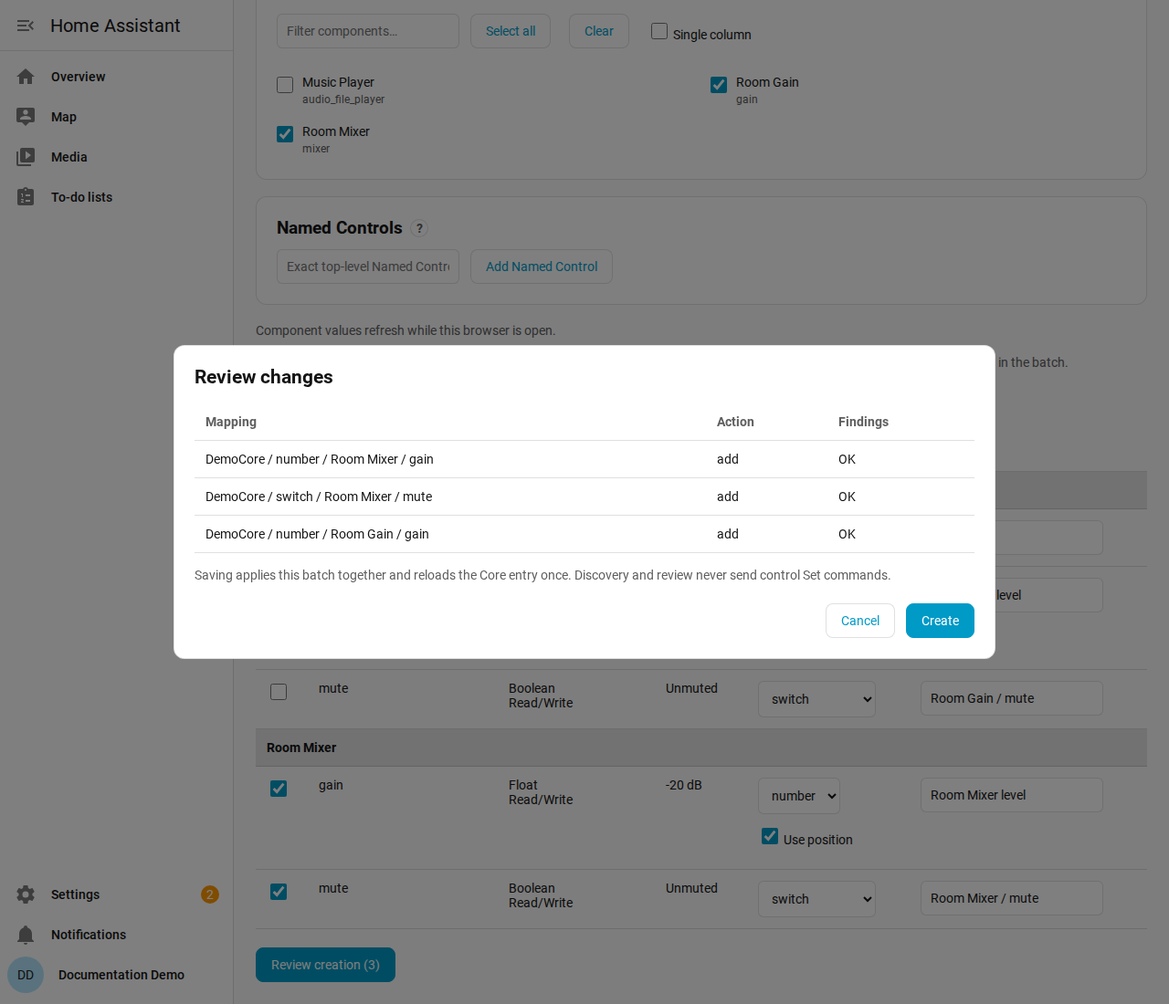
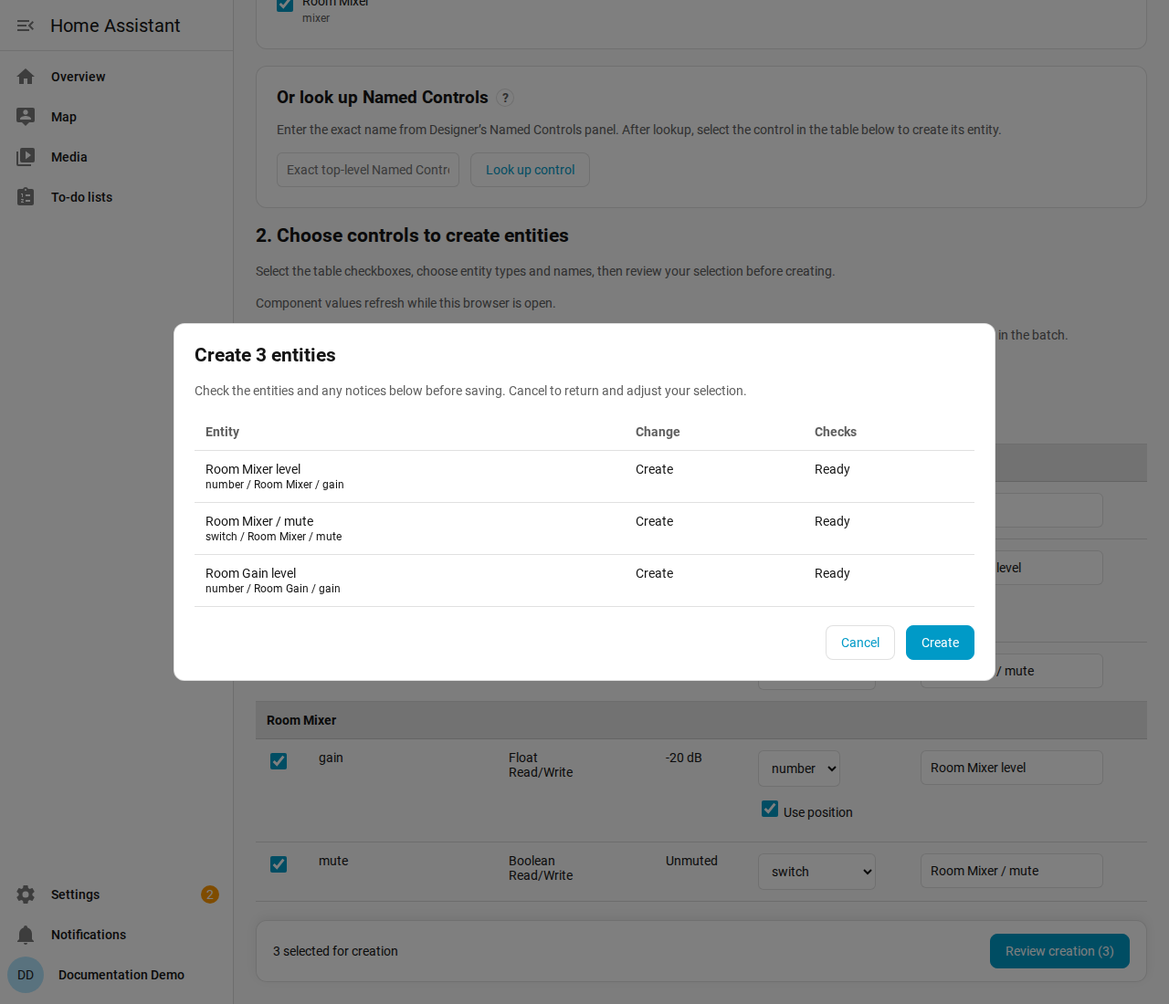
Clarify entity management, review feedback, and creation completion

diff --git a/custom_components/qsys_qrc/frontend/panel.js b/custom_components/qsys_qrc/frontend/panel.js
@@ -114,7 +114,7 @@ class QsysPanel extends HTMLElement {
     if(this.busy||!this.pendingEntityInventory)return;
     const entry=this.pendingEntityInventory;this.pendingEntityInventory=null;
     if(entry!==this.entry||!['browser','entities','migrate'].includes(this.view))return;
-    this.run(async()=>{await this.loadInventory();if(entry===this.entry&&this.message==='Changes saved. The Core integration is reloading.')this.message='Changes saved. The Core integration has reloaded.';});
+    this.run(async()=>{await this.loadInventory();if(entry===this.entry)this.reloadPending=false;});
   }
   async initialize(){await this.subscribeEntityEvents();await this.load();const route=this.readRoute();await this.navigate(route.view,{entry:route.entry,history:'replace'});}
   routeChanged(){
@@ -125,7 +125,7 @@ class QsysPanel extends HTMLElement {
     this.run(()=>this.navigate(route.view,{entry:route.entry,history:'replace'}));
   }
   get core(){return this.cores.find(c=>c.entry_id===this.entry);}
-  async navigate(view,{entry=this.entry,history:historyMode='push'}={}){if(!panelViews.has(view)||!await this.confirmLeave())return;this.entry=entry;this.view=view;this.review=null;this.selected.clear();this.filter='';if(view==='overview'||view==='diagnostics')await this.load();if(this.entry){if(view==='browser') {await this.loadInventory();this.components=(await this.api('components')).components.sort((a,b)=>this.collator.compare(a.Name,b.Name));this.controls=[];this.selectedComponents.clear();this.componentErrors={};this.cleanControls.clear();}if(view==='entities'||view==='migrate')await this.loadInventory();if(view==='monitor')await this.pollMonitor();if(view==='export')await this.loadExport();}this.writeRoute(historyMode);}
+  async navigate(view,{entry=this.entry,history:historyMode='push'}={}){if(!panelViews.has(view)||!await this.confirmLeave())return;if(entry!==this.entry){this.message='';this.messageEntities=false;this.reloadPending=false;}this.entry=entry;this.view=view;this.review=null;this.selected.clear();this.filter='';if(view==='overview'||view==='diagnostics')await this.load();if(this.entry){if(view==='browser') {await this.loadInventory();this.components=(await this.api('components')).components.sort((a,b)=>this.collator.compare(a.Name,b.Name));this.controls=[];this.selectedComponents.clear();this.componentErrors={};this.cleanControls.clear();}if(view==='entities'||view==='migrate')await this.loadInventory();if(view==='monitor')await this.pollMonitor();if(view==='export')await this.loadExport();}this.writeRoute(historyMode);}
   async loadExport(){this.exportDocument=null;this.exportDocument=(await this.api('export',{effective:!!this.effective})).document;}
   async copyExport(){
     if(!this.exportDocument)throw Error('Load the YAML export before copying');
@@ -159,7 +159,8 @@ class QsysPanel extends HTMLElement {
       const nullable=field!=='mode'||platforms.every(p=>p==='text');
       return `<label class="edit-value-label">New value<select id="edit-value">${nullable?'<option value="">None</option>':''}${options.map(v=>`<option value="${escapeHTML(v)}" ${v===value?'selected':''}>${escapeHTML(v)}</option>`).join('')}</select></label>`;
     }
-    if(['options','change_template','value_template'].includes(field))return `<label class="edit-value-label">New value<textarea id="edit-value" rows="${field==='options'?5:4}" spellcheck="false">${escapeHTML(value)}</textarea></label>`;
+    if(field==='options')return `<label class="edit-value-label">Options override<textarea id="edit-value" rows="5" aria-describedby="options-help">${escapeHTML(value)}</textarea></label><p id="options-help">Leave blank to follow live Q-SYS choices, or enter one option per line to use a static list.</p>`;
+    if(['change_template','value_template'].includes(field))return `<label class="edit-value-label">New value<textarea id="edit-value" rows="${field==='options'?5:4}" spellcheck="false">${escapeHTML(value)}</textarea></label>`;
     return `<label class="edit-value-label">New value<input id="edit-value" type="text" value="${escapeHTML(value)}" ${field==='attribute'?'list="sensor-attributes"':''}></label>${field==='attribute'?'<datalist id="sensor-attributes"><option value="String"><option value="Value"><option value="Position"></datalist>':''}`;
   }
   matchingComponents(){const query=(this.componentFilter||'').toLowerCase();return (this.components||[]).filter(c=>(c.Name+' '+c.Type).toLowerCase().includes(query));}
@@ -345,7 +346,19 @@ class QsysPanel extends HTMLElement {
     }
     if(action==='import')return this.preview({operation:'import',document:this.shadowRoot.querySelector('#document').value,collision:this.shadowRoot.querySelector('#collision').value,transfer_yaml:this.shadowRoot.querySelector('#transfer').checked});
     if(action==='migrate')return this.preview({operation:'migrate',identities:this.selectedRows().map(r=>JSON.parse(key(this.core.name,r.mapping))),collision:this.shadowRoot.querySelector('#collision').value});
-    if(action==='save'){await this.api(this.pending.operation,{...this.pending,commit:true,revision:this.review.revision,review_token:this.review.review_token});for(const i of this.selected)if(this.view==='browser')this.cleanControls.set(this.controlKey(this.controls[i]),JSON.stringify(this.controlSettings(this.controls[i])));if(this.view==='import')this.cleanDocument=this.document;this.editValue='';this.resetEditBaseline=true;this.review=null;this.message='Changes saved. The Core integration is reloading.';this.selected.clear();if(['browser','entities','migrate'].includes(this.view))await this.loadInventory();}
+    if(action==='save'){
+      const operation=this.pending.operation,count=this.review.changes.filter(c=>c.action!=='skip').length;
+      this.reloadPending=true;
+      try{await this.api(operation,{...this.pending,commit:true,revision:this.review.revision,review_token:this.review.review_token});}
+      catch(error){this.reloadPending=false;throw error;}
+      for(const i of this.selected)if(this.view==='browser')this.cleanControls.set(this.controlKey(this.controls[i]),JSON.stringify(this.controlSettings(this.controls[i])));
+      if(this.view==='import')this.cleanDocument=this.document;
+      this.editValue='';this.resetEditBaseline=true;this.review=null;
+      const verb={create:'Created',edit:'Updated',delete:'Deleted',import:'Imported',migrate:'Migrated'}[operation]||'Saved';
+      this.message=count?`${verb} ${count} ${count===1?'entity':'entities'}.`:'No entities changed.';
+      this.messageEntities=count>0&&this.view!=='entities';
+      this.selected.clear();if(['browser','entities','migrate'].includes(this.view))await this.loadInventory();
+    }
     if(action==='cancel'){this.review=null;}
     if(action==='capture')await this.pollMonitor({capture:!this.capture});
     if(action==='pause'){this.paused=!this.paused;this.monitorGeneration=(this.monitorGeneration||0)+1;}
@@ -387,10 +400,27 @@ class QsysPanel extends HTMLElement {
       icon.stateObj=this._hass?.states[row.entity_id]||{entity_id:row.entity_id||`${row.mapping.platform}.qsys_preview`,state:'unavailable',attributes:{device_class:row.mapping.settings.device_class}};
     });
   }
-  renderEntities(migrate=false){return `<p>${migrate?'Select definitions configured via Home Assistant YAML to transfer ownership to the UI. Remove transferred definitions from your YAML files afterward.':'Definitions configured via Home Assistant YAML are read-only until migrated. Deleting an imported mapping can reactivate its remaining definition configured via Home Assistant YAML.'}</p>${this.toolbar()}<div class="table"><table><thead><tr><th><input id="all" type="checkbox" aria-label="Select visible mappings"></th>${this.sortHeader('Entity Name','entities','name')}${this.sortHeader('Platform','entities','platform')}${this.sortHeader('Component / control','entities','target')}${this.sortHeader('Source','entities','source')}${this.sortHeader('Details','entities','details')}</tr></thead><tbody>${this.entityRows(migrate).map(({item:r,index:i})=>{const m=r.mapping,s=m.settings,enabled=migrate?r.source==='yaml':r.source==='ui';return `<tr data-entity-row="${i}" data-search="${escapeHTML([JSON.stringify(m),r.entity_name,r.entity_id,r.displaySource||r.source].filter(Boolean).join(' '))}"><td><input data-select="${i}" type="checkbox" aria-label="Select ${escapeHTML(s.name||s.control||s.component)}" ${enabled?'':'disabled'} ${this.selected.has(i)?'checked':''}></td><td>${this.entityNameCell(r,i)}</td><td>${m.platform}</td><td>${escapeHTML(s.component||'Named Control')} / ${escapeHTML(s.control||'media player')}</td><td>${r.displaySource||r.source}</td><td><details><summary>Settings</summary>${r.entity_id?`<p>${escapeHTML(r.entity_id)}</p>`:''}${r.cleanup_pending?'<p>Remove the transferred definition from Home Assistant YAML.</p>':''}${r.yaml_conflict?'<p>The definition configured via Home Assistant YAML changed after migration.</p>':''}<pre>${escapeHTML(JSON.stringify(s,null,2))}</pre></details></td></tr>`;}).join('')}</tbody></table></div>${migrate?`<label>Existing UI mappings <select id="collision"><option value="skip" ${this.collision!=='replace'?'selected':''}>Skip</option><option value="replace" ${this.collision==='replace'?'selected':''}>Replace</option></select></label>${this.button(`Review migration (${this.selected.size})`,'migrate')}`:`<label>Setting to edit <select id="edit-field">${this.editableFields().map(([v,label])=>`<option value="${v}" ${(this.editField||'name')===v?'selected':''}>${label}</option>`).join('')}</select></label>${this.editInput()}<p>The setting applies to every selected entity. All selected mappings must support it and pass validation.</p>${this.button('Review bulk edit','edit',this.selected.size?'class="filled"':'')}${this.button('Review deletion','delete',`class="danger ${this.selected.size?'filled':''}"`)}`}`;}
+  renderEntities(migrate=false){return `<p>${migrate?'Select definitions configured via Home Assistant YAML to transfer ownership to the UI. Remove transferred definitions from your YAML files afterward.':'Select entities to edit their settings or delete them. Click an entity name to open its Home Assistant controls.'}</p>${this.inventory.some(row=>row.source==='yaml')?'<p>YAML-only entities are read-only until migrated. Entities with both sources appear once as ui + yaml; deleting their UI definition can reactivate YAML.</p>':''}${!this.entityRows(migrate).length?`<section class="empty-state"><h2>${migrate?'No YAML entities to migrate':'No entities yet'}</h2><p>${migrate?'This Core has no entity definitions in Home Assistant YAML.':'Choose components or look up Named Controls to create your first entities.'}</p>${migrate?'':this.button('Add entities','navigate','data-view="browser" class="filled"')}</section>`:''}${this.toolbar()}<div class="table"><table><thead><tr><th><input id="all" type="checkbox" aria-label="Select visible mappings"></th>${this.sortHeader('Entity Name','entities','name')}${this.sortHeader('Platform','entities','platform')}${this.sortHeader('Component / control','entities','target')}${this.sortHeader('Source','entities','source')}${this.sortHeader('Details','entities','details')}</tr></thead><tbody>${this.entityRows(migrate).map(({item:r,index:i})=>{const m=r.mapping,s=m.settings,enabled=migrate?r.source==='yaml':r.source==='ui';return `<tr data-entity-row="${i}" data-search="${escapeHTML([JSON.stringify(m),r.entity_name,r.entity_id,r.displaySource||r.source].filter(Boolean).join(' '))}"><td><input data-select="${i}" type="checkbox" aria-label="Select ${escapeHTML(s.name||s.control||s.component)}" ${enabled?'':'disabled'} ${this.selected.has(i)?'checked':''}></td><td>${this.entityNameCell(r,i)}</td><td>${m.platform}</td><td>${escapeHTML(s.component||'Named Control')} / ${escapeHTML(s.control||'media player')}</td><td>${r.displaySource||r.source}</td><td><details><summary>Settings</summary>${r.entity_id?`<p>${escapeHTML(r.entity_id)}</p>`:''}${r.cleanup_pending?'<p>Remove the transferred definition from Home Assistant YAML.</p>':''}${r.yaml_conflict?'<p>The definition configured via Home Assistant YAML changed after migration.</p>':''}<pre>${escapeHTML(JSON.stringify(s,null,2))}</pre></details></td></tr>`;}).join('')}</tbody></table></div>${migrate?`<label>Existing UI mappings <select id="collision"><option value="skip" ${this.collision!=='replace'?'selected':''}>Skip</option><option value="replace" ${this.collision==='replace'?'selected':''}>Replace</option></select></label>${this.button(`Review migration (${this.selected.size})`,'migrate',this.selected.size?'class="filled"':'disabled')}`:`<label>Setting to edit <select id="edit-field">${this.editableFields().map(([v,label])=>`<option value="${v}" ${(this.editField||'name')===v?'selected':''}>${label}</option>`).join('')}</select></label>${this.editInput()}<p>The setting applies to every selected entity. All selected mappings must support it and pass validation.</p>${this.button('Review bulk edit','edit',this.selected.size?'class="filled"':'disabled')}${this.button('Review deletion','delete',`class="danger ${this.selected.size?'filled':''}" ${this.selected.size?'':'disabled'}`)}`}`;}
   renderTransport(){if(this.view==='export')return `<article class="card"><h2>Export portable YAML</h2><div class="tools">${this.button('Copy to clipboard','copy-export',this.exportDocument?'':'disabled')}${this.button('Download','export',this.exportDocument?'':'disabled')}</div><label><input id="effective" type="checkbox" ${this.effective?'checked':''}> Include active Home Assistant YAML mappings</label><p>Connection credentials and installation IDs are excluded.</p><pre id="export-document">${escapeHTML(this.exportDocument||'')}</pre></article>`;return `<article class="card"><h2>Import portable YAML</h2><label>Upload YAML <input id="file" type="file" accept=".yaml,.yml,.json"></label><label>Or paste YAML<textarea id="document" rows="14">${escapeHTML(this.document||'')}</textarea></label><label>Collisions <select id="collision"><option value="skip" ${this.collision!=='replace'?'selected':''}>Skip existing</option><option value="replace" ${this.collision==='replace'?'selected':''}>Replace existing</option></select></label><label><input id="transfer" type="checkbox" ${this.transfer?'checked':''}> Transfer ownership of colliding Home Assistant YAML mappings</label><p>Review discovery findings and changes before saving. Maximum 256 KiB and 1,000 mappings.</p>${this.button('Review import','import')}</article>`;}
   renderMonitor(){return `<div class="tools">${this.button(this.capture?'Stop capture':'Start capture','capture')}${this.button(this.paused?'Resume display':'Pause display','pause')}${this.button('Clear buffer','clear')}${this.button('Download capture','download-monitor')}</div><p><span id="monitor-status">${this.capture?'Capturing':'Capture stopped'} · ${this.frames.length}/500 frames retained.</span> Login credentials are redacted. Frames over 32 KiB are truncated. Capture covers this integration’s Core connection; refreshing the display adds no QRC requests.</p><p id="monitor-error" class="error" role="alert" hidden></p><div class="tools"><select id="direction" aria-label="Direction"><option value="">Both directions</option><option value="sent" ${this.direction==='sent'?'selected':''}>Sent</option><option value="received" ${this.direction==='received'?'selected':''}>Received</option></select><input id="monitor-search" placeholder="Filter method, ID, or payload" aria-label="Filter protocol frames" value="${escapeHTML(this.monitorSearch||'')}"></div><div class="table"><table><thead><tr><th>Time</th><th>Direction</th><th>ID</th><th>JSON-RPC frame</th></tr></thead><tbody id="monitor-rows">${this.frames.slice().reverse().map(frame=>this.monitorRow(frame)).join('')}</tbody></table></div>`;}
-  renderReview(){return `<dialog id="review-dialog" aria-labelledby="review-title"><section class="review"><h2 id="review-title" tabindex="-1">Review changes</h2>${this.error?`<p class="error" role="alert">${escapeHTML(this.error)}</p>`:''}<div class="review-content"><table><thead><tr><th>Mapping</th><th>Action</th><th>Findings</th></tr></thead><tbody>${this.review.changes.map(c=>`<tr><td>${escapeHTML(c.identity.join(' / '))}</td><td>${escapeHTML(c.action)}${c.ownership_transfer?' · YAML ownership transfer':''}</td><td>${escapeHTML([c.warning,...(this.review.findings.find(f=>JSON.stringify(f.identity)===JSON.stringify(c.identity))?.issues||[])].filter(Boolean).join(', ')||'OK')}</td></tr>`).join('')}</tbody></table></div><p>Saving applies this batch together and reloads the Core entry once. Discovery and review never send control Set commands.</p><div class="review-actions">${this.button('Cancel','cancel')}${this.button(({create:'Create',edit:'Save',delete:'Delete'})[this.pending.operation]||'Confirm and save','save',`class="filled ${this.pending.operation==='delete'?'danger':''}"`)}</div></section></dialog>`;}
+  reviewCount(){return this.review.changes.filter(c=>c.action!=='skip').length;}
+  reviewTitle(){
+    const verb={create:'Create',edit:'Edit',delete:'Delete',import:'Import',migrate:'Migrate'}[this.pending.operation]||'Save';
+    const count=this.reviewCount();return `${verb} ${count} ${count===1?'entity':'entities'}`;
+  }
+  findingLabel(issue){
+    return {missing_component:'The component was not found in the current design.',missing_control:'The control was not found in the current design.',read_only_mismatch:'This control is read-only. Choose a sensor entity instead.',incompatible_control:'This entity type does not support the control. Choose a compatible entity type.',unsupported_component_type:'This component does not support a media player entity.',writability_unverified:'Q-SYS did not report whether this control is writable.'}[issue]||String(issue).replaceAll('_',' ');
+  }
+  reviewBlocked(){return this.review.findings.some(f=>f.issues.some(issue=>['read_only_mismatch','incompatible_control','unsupported_component_type'].includes(issue)));}
+  reviewEntity(change){
+    const identity=JSON.stringify(change.identity);
+    const mapping=(this.pending.mappings||[]).find(m=>key(this.core.name,m)===identity)||this.inventory.find(row=>key(this.core.name,row.mapping)===identity)?.mapping;
+    return mapping?.settings.name||change.identity.at(-1)||'Entity';
+  }
+  renderReview(){
+    const blocked=this.reviewBlocked(),count=this.reviewCount(),deleting=this.pending.operation==='delete';
+    return `<dialog id="review-dialog" aria-labelledby="review-title" aria-describedby="review-description"><section class="review"><h2 id="review-title" tabindex="-1">${this.reviewTitle()}</h2><p id="review-description">${deleting?'Confirm which Home Assistant entities to delete. Their Q-SYS controls will remain available.':'Check the entities and any notices below before saving. Cancel to return and adjust your selection.'}</p>${this.error?`<p class="error" role="alert">${escapeHTML(this.error)}</p>`:''}${blocked?'<p class="error" role="alert">Some entities use an incompatible control or entity type. Cancel and adjust them before saving.</p>':''}${!count?'<p>No changes to save. Existing entities will be kept.</p>':''}<div class="review-content"><table><thead><tr><th>Entity</th><th>Change</th><th>Checks</th></tr></thead><tbody>${this.review.changes.map(c=>`<tr><td>${escapeHTML(this.reviewEntity(c))}<br><small>${escapeHTML(c.identity.slice(1).filter(Boolean).join(' / '))}</small></td><td>${escapeHTML({add:'Create',replace:'Replace',skip:'Keep existing',edit:'Update',delete:'Delete'}[c.action]||c.action)}${c.ownership_transfer?' · Move from YAML to UI':''}</td><td>${escapeHTML([c.warning,...(this.review.findings.find(f=>JSON.stringify(f.identity)===JSON.stringify(c.identity))?.issues||[]).map(issue=>this.findingLabel(issue))].filter(Boolean).join(' ')||'Ready')}</td></tr>`).join('')}</tbody></table></div><div class="review-actions">${this.button('Cancel','cancel')}${this.button(({create:'Create',edit:'Save',delete:'Delete'})[this.pending.operation]||'Confirm and save','save',`class="filled ${deleting?'danger':''}" ${blocked||!count?'disabled':''}`)}</div></section></dialog>`;
+  }
   captureForm(){
     this.shadowRoot.querySelectorAll('[data-name]').forEach(el=>{if(this.controls[el.dataset.name])this.controls[el.dataset.name].entityName=el.value;});
     const text=this.shadowRoot.querySelector('#document');if(text)this.document=text.value;
@@ -403,7 +433,7 @@ class QsysPanel extends HTMLElement {
     const titles={overview:'Dashboard',browser:'Components / Controls',entities:'Entities',monitor:'QRC Protocol Monitor',diagnostics:'Diagnostics',import:'Import YAML',export:'Export YAML',migrate:'Migrate from Home Assistant YAML'};
     this.shadowRoot.innerHTML=`<style>
       :host{display:block;height:100%;overflow:auto;background:var(--primary-background-color);color:var(--primary-text-color);font-family:var(--paper-font-body1_-_font-family,Roboto,Arial,sans-serif)}*{box-sizing:border-box}[hidden]{display:none!important}header{display:flex;align-items:center;gap:16px;padding:18px 24px;background:var(--card-background-color);border-bottom:1px solid var(--divider-color)}header h1{margin:0;font-size:23px}main{max-width:1400px;margin:auto;padding:24px}nav,.tools{display:flex;flex-wrap:wrap;align-items:center;gap:12px;margin-bottom:20px}.grid{display:grid;grid-template-columns:repeat(auto-fit,minmax(250px,1fr));gap:18px;margin-bottom:32px}.card,.review{background:var(--card-background-color);border:1px solid var(--divider-color);border-radius:12px;padding:22px;text-align:left}.browser-config-card{margin-bottom:18px}.browser-config-card .tools:last-child{margin-bottom:0}.section-heading{display:flex;align-items:center;gap:8px;margin-bottom:12px}.section-heading h2{margin:0}.help{position:relative;display:inline-flex}.help-icon{display:inline-flex;align-items:center;justify-content:center;width:20px;height:20px;padding:0;margin:0;border-radius:50%;font-size:14px;font-weight:600;color:var(--secondary-text-color)}.help-icon:focus-visible{outline:2px solid var(--primary-color);outline-offset:3px}.card .help-tooltip{position:absolute;top:28px;left:-36px;z-index:2;width:300px;max-width:calc(100vw - 90px);padding:12px;border:1px solid var(--divider-color);border-radius:8px;background:var(--card-background-color);color:var(--primary-text-color);font-size:14px;line-height:1.5;box-shadow:0 3px 12px #0003;visibility:hidden;pointer-events:none}.help:hover .help-tooltip,.help:focus-within .help-tooltip{visibility:visible}.card h2{margin:0 0 12px;font-size:19px}.card .section-heading h2{margin:0}.card p,p{line-height:1.5;color:var(--secondary-text-color)}.card span{color:var(--primary-color)}button{cursor:pointer;color:var(--primary-color);background:var(--card-background-color);border:1px solid var(--divider-color);border-radius:8px;padding:10px 16px;font:inherit;margin-right:8px}button.sort-header{display:inline-flex;align-items:center;gap:6px;border:0;padding:0;margin:0;background:transparent;color:inherit;font-weight:600;text-align:left}.sort-icon{--mdc-icon-size:20px;width:20px;height:20px;flex:0 0 20px}.sort-icon.inactive{visibility:hidden}button.sort-header:hover{color:var(--primary-color)}.entity-label{display:inline-flex;align-items:center;gap:10px}.entity-label ha-state-icon{--mdc-icon-size:24px;width:24px;height:24px;flex:0 0 24px;color:var(--secondary-text-color)}button.entity-name{border:0;padding:0;margin:0;text-align:left;background:transparent}button.entity-name:hover{text-decoration:underline}button:hover{border-color:var(--primary-color)}button.filled{background:var(--primary-color);border-color:var(--primary-color);color:var(--text-primary-color,#fff)}button.danger{color:var(--error-color);border-color:var(--error-color)}button.danger.filled{background:var(--error-color);color:var(--text-primary-color,#fff)}button.filled:hover{filter:brightness(.92)}button:disabled{opacity:.5;cursor:not-allowed}.action-bar{position:sticky;bottom:0;z-index:3;display:flex;align-items:center;justify-content:space-between;flex-wrap:wrap;gap:12px;padding:14px 18px;background:var(--card-background-color);border:1px solid var(--divider-color);border-radius:12px;box-shadow:0 -3px 12px #0001}.action-bar button{margin:0}.empty-state{padding:20px;border:1px dashed var(--divider-color);border-radius:8px}input,select,textarea{font:inherit;color:var(--primary-text-color);background:var(--card-background-color);border:1px solid var(--divider-color);border-radius:6px;padding:10px;max-width:100%}input[type=checkbox]{width:18px;height:18px;accent-color:var(--primary-color)}label{display:block;margin:12px 0}.edit-value-label>input,.edit-value-label>select,.edit-value-label>textarea{display:block;margin-top:8px}textarea{display:block;width:100%;margin:10px 0;font-family:monospace}.component-picker{display:grid;grid-template-columns:repeat(auto-fit,minmax(min(100%,320px),1fr));gap:12px 20px}.component-picker.single-column{grid-template-columns:1fr}.component-picker label{display:flex;align-items:flex-start;gap:10px;min-width:0;margin:4px 0;cursor:pointer}.component-picker input[type=checkbox]{flex:0 0 18px;margin:2px 0 0}.component-picker .component-label{display:flex;flex-direction:column;align-items:flex-start;gap:4px;min-width:0}.component-picker .component-name{color:var(--primary-text-color);font-size:inherit;overflow-wrap:anywhere;min-width:0}.component-picker .component-type{color:var(--secondary-text-color);font-size:12px;overflow-wrap:anywhere}.mapped-row{background:var(--secondary-background-color)}.mapped-row td{color:var(--disabled-text-color,var(--secondary-text-color))}.mapped-row input{opacity:.55}.mapped-badge{display:block;font-size:12px;margin-top:4px}button.mapped-link{padding:0;margin:4px 0 0;border:0;background:transparent;text-align:left}button.mapped-link:hover{text-decoration:underline}.component-group th{background:var(--secondary-background-color);color:var(--primary-text-color)}.table-filter{margin-bottom:8px}.table-filter+.table{margin-top:0}.table{overflow:auto;margin:20px 0}table{border-collapse:collapse;width:100%;text-align:left}th,td{padding:12px;border-bottom:1px solid var(--divider-color);vertical-align:top}th{color:var(--secondary-text-color)}pre{white-space:pre-wrap;overflow-wrap:anywhere;font-size:12px;max-width:800px}summary{cursor:pointer}.badge{font-size:12px}.error{padding:16px;border-radius:8px;background:var(--error-color);color:white}.message{padding:12px;border:1px solid var(--primary-color)}#review-dialog{width:min(900px,calc(100vw - 32px));max-height:calc(100dvh - 32px);padding:0;border:1px solid var(--divider-color);border-radius:12px;background:var(--card-background-color);color:var(--primary-text-color)}#review-dialog::backdrop{background:rgba(0,0,0,.5)}.review{margin:0;border:0}.review h2{margin-top:0}.review-content{overflow:auto;max-height:55dvh}.review-actions{display:flex;justify-content:flex-end;gap:12px;flex-wrap:wrap;margin-top:20px}.review-actions button{margin:0}@media(max-width:600px){main{padding:14px}header{padding:14px;flex-wrap:wrap}header select{width:100%}.grid{grid-template-columns:1fr}}
-    </style><header><ha-icon-button id="back" data-action="back" label="Back to Connectivity"></ha-icon-button><h1>Q-SYS · ${titles[this.view]}</h1><select id="core" aria-label="Q-SYS Core">${this.cores.map(c=>`<option value="${escapeHTML(c.entry_id)}" ${c.entry_id===this.entry?'selected':''}>${escapeHTML(c.name)}</option>`).join('')}</select>${this.cores.length?this.button('Core settings','core-settings'):''}</header><main><nav>${Object.entries(titles).filter(([v])=>['overview','browser','entities','monitor'].includes(v)).map(([v,t])=>this.button(t,'navigate',`data-view="${v}" ${this.view===v?'aria-current="page"':''}`)).join('')}</nav>${this.error?`<p class="error" role="alert">${escapeHTML(this.error)}</p>`:''}${this.message?`<p class="message" role="status">${escapeHTML(this.message)}</p>`:''}${!this.cores.length?`<section class="card"><h2>Connect your first Core</h2><p>Open Settings → Devices &amp; services, choose Add integration, and search for Q-Sys QRC. Then return here to create entities. No YAML is required.</p>${this.button('Open integration settings','core-settings')}</section>`:this.view==='overview'?this.renderOverview():this.view==='browser'?this.renderBrowser():this.view==='entities'||this.view==='migrate'?this.renderEntities(this.view==='migrate'):this.view==='monitor'?this.renderMonitor():this.view==='diagnostics'?`<div class="grid">${this.cores.map(c=>`<article class="card"><h2>${escapeHTML(c.name)}</h2><p>${escapeHTML(c.status)}</p>${c.last_error?`<p role="alert">${escapeHTML(c.last_error)}</p>`:''}<p>Design information recorded when the Core was configured:</p><pre>${escapeHTML(JSON.stringify(c.engine,null,2))}</pre><p>Use the Protocol Monitor to inspect errors and polling responses. Core connection changes are available under Settings → Devices & services → Q-SYS → Reconfigure.</p></article>`).join('')}</div>`:this.renderTransport()}${this.review?this.renderReview():''}</main>`;
+    </style><header><ha-icon-button id="back" data-action="back" label="Back to Connectivity"></ha-icon-button><h1>Q-SYS · ${titles[this.view]}</h1><select id="core" aria-label="Q-SYS Core">${this.cores.map(c=>`<option value="${escapeHTML(c.entry_id)}" ${c.entry_id===this.entry?'selected':''}>${escapeHTML(c.name)}</option>`).join('')}</select>${this.cores.length?this.button('Core settings','core-settings'):''}</header><main><nav>${Object.entries(titles).filter(([v])=>['overview','browser','entities','monitor'].includes(v)).map(([v,t])=>this.button(t,'navigate',`data-view="${v}" ${this.view===v?'aria-current="page"':''}`)).join('')}</nav>${this.error?`<p class="error" role="alert">${escapeHTML(this.error)}</p>`:''}${this.message?`<div class="message"><p role="status">${escapeHTML(this.message)}${this.reloadPending?' Updating entities…':''}</p>${this.messageEntities?this.button('View entities','navigate','data-view="entities"'):''}</div>`:''}${!this.cores.length?`<section class="card"><h2>Connect your first Core</h2><p>Open Settings → Devices &amp; services, choose Add integration, and search for Q-Sys QRC. Then return here to create entities. No YAML is required.</p>${this.button('Open integration settings','core-settings')}</section>`:this.view==='overview'?this.renderOverview():this.view==='browser'?this.renderBrowser():this.view==='entities'||this.view==='migrate'?this.renderEntities(this.view==='migrate'):this.view==='monitor'?this.renderMonitor():this.view==='diagnostics'?`<div class="grid">${this.cores.map(c=>`<article class="card"><h2>${escapeHTML(c.name)}</h2><p>${escapeHTML(c.status)}</p>${c.last_error?`<p role="alert">${escapeHTML(c.last_error)}</p>`:''}<p>Design information recorded when the Core was configured:</p><pre>${escapeHTML(JSON.stringify(c.engine,null,2))}</pre><p>Use the Protocol Monitor to inspect errors and polling responses. Core connection changes are available under Settings → Devices & services → Q-SYS → Reconfigure.</p></article>`).join('')}</div>`:this.renderTransport()}${this.review?this.renderReview():''}</main>`;
     this.updateEntityIcons();
     const editInput=this.shadowRoot.querySelector('#edit-value');if(editInput&&(this.resetEditBaseline||this.cleanEditValue===undefined)){this.cleanEditValue=editInput.type==='checkbox'?editInput.checked:editInput.value;this.resetEditBaseline=false;}
     const reviewDialog=this.shadowRoot.querySelector('#review-dialog');

diff --git a/scripts/screenshots/panel.py b/scripts/screenshots/panel.py
@@ -248,12 +248,14 @@ async def capture(config):
                     "button", name="Keep editing", exact=True
                 ).click()
                 await page.get_by_role("dialog").wait_for(state="hidden")
+                await panel.get_by_role("button", name="Add entities", exact=False).wait_for()
+                await panel.get_by_role("button", name="Manage entities", exact=False).wait_for()
                 await screenshot("panel-dashboard.png")
                 await panel.get_by_role(
                     "button", name="Components / Controls", exact=True
                 ).click()
                 await panel.get_by_role(
-                    "heading", name="Named Controls", exact=True
+                    "heading", name="Or look up Named Controls", exact=True
                 ).wait_for()
                 await panel.get_by_role(
                     "button", name="About Components", exact=True
@@ -274,6 +276,9 @@ async def capture(config):
                     in await panel.locator("#help-named-controls").inner_text()
                 )
                 assert await panel.locator("section.card #named").count() == 1
+                await expect(panel.get_by_role("button", name="Review creation (0)", exact=True)).to_be_disabled()
+                await panel.get_by_role("button", name="Look up control", exact=True).wait_for()
+                assert await panel.locator(".action-bar").evaluate("el => getComputedStyle(el).position") == "sticky"
                 await panel.get_by_role(
                     "textbox", name="Filter components", exact=True
                 ).fill("Room Gain")
@@ -408,17 +413,13 @@ async def capture(config):
                 await panel.get_by_role(
                     "button", name="Review creation (4)", exact=True
                 ).click()
-                await panel.get_by_role("heading", name="Review changes").wait_for()
+                await panel.locator("#review-title").wait_for()
                 assert (
                     "media_player" in await panel.locator("section.review").inner_text()
                 )
-                await panel.get_by_role(
-                    "dialog", name="Review changes", exact=True
-                ).wait_for()
+                await panel.locator("#review-dialog").wait_for()
                 await page.keyboard.press("Escape")
-                await panel.get_by_role(
-                    "dialog", name="Review changes", exact=True
-                ).wait_for(state="hidden")
+                await panel.locator("#review-dialog").wait_for(state="hidden")
                 assert await panel.get_by_role(
                     "button", name="Review creation (4)", exact=True
                 ).evaluate("button => button.matches(':focus')")
@@ -440,19 +441,19 @@ async def capture(config):
                     "button", name="Keep editing", exact=True
                 ).click()
                 await page.get_by_role("dialog").wait_for(state="hidden")
-                assert page.url == BASE + "/qsys-qrc"
+                assert page.url == BASE + "/qsys-qrc/cores/DemoCore/browser"
                 await page.evaluate("history.back()")
                 await page.get_by_role(
                     "button", name="Keep editing", exact=True
                 ).click()
                 await page.get_by_role("dialog").wait_for(state="hidden")
-                assert page.url == BASE + "/qsys-qrc"
+                assert page.url == BASE + "/qsys-qrc/cores/DemoCore/browser"
                 await page.get_by_role("link", name="2 Settings 2", exact=True).click()
                 await page.get_by_role(
                     "button", name="Keep editing", exact=True
                 ).click()
                 await page.get_by_role("dialog").wait_for(state="hidden")
-                assert page.url == BASE + "/qsys-qrc"
+                assert page.url == BASE + "/qsys-qrc/cores/DemoCore/browser"
                 assert await panel.evaluate(
                     "element => {const event=new Event('beforeunload',{cancelable:true});window.dispatchEvent(event);return event.defaultPrevented;}"
                 )
@@ -463,14 +464,15 @@ async def capture(config):
                 await panel.get_by_role(
                     "button", name="Review creation (3)", exact=True
                 ).click()
-                await panel.get_by_role("heading", name="Review changes").wait_for()
+                await panel.locator("#review-title").wait_for()
+                await expect(panel.locator("#review-title")).to_have_text("Create 3 entities")
                 await screenshot("panel-bulk-create.png", full_page=False)
                 await panel.get_by_role("button", name="Create", exact=True).click()
-                await panel.get_by_role("heading", name="Review changes").wait_for(
+                await panel.locator("#review-title").wait_for(
                     state="hidden"
                 )
                 assert await panel.locator(".error").count() == 0
-                await panel.get_by_role("heading", name="Review changes").wait_for(
+                await panel.locator("#review-title").wait_for(
                     state="hidden"
                 )
                 assert await panel.locator(".error").count() == 0
@@ -483,7 +485,10 @@ async def capture(config):
                     };
                     return visit(document);
                 }""")
-                await panel.get_by_role("button", name="Entities", exact=True).click()
+                await expect(panel.locator(".message")).to_contain_text("Created 3 entities.")
+                await panel.get_by_role("button", name="View entities", exact=True).click()
+                await expect(panel.get_by_role("button", name="Review bulk edit", exact=True)).to_be_disabled()
+                await expect(panel.get_by_role("button", name="Review deletion", exact=True)).to_be_disabled()
                 assert (
                     await panel.get_by_role(
                         "columnheader", name="Status", exact=True
@@ -620,9 +625,9 @@ async def capture(config):
                 await panel.get_by_role(
                     "button", name="Review bulk edit", exact=True
                 ).click()
-                await panel.get_by_role("heading", name="Review changes").wait_for()
+                await panel.locator("#review-title").wait_for()
                 await panel.get_by_role("button", name="Save", exact=True).click()
-                await panel.get_by_role("heading", name="Review changes").wait_for(
+                await panel.locator("#review-title").wait_for(
                     state="hidden"
                 )
                 assert await panel.locator(".error").count() == 0
@@ -673,11 +678,11 @@ async def capture(config):
                 await panel.get_by_role(
                     "button", name="Review migration (1)", exact=True
                 ).click()
-                await panel.get_by_role("heading", name="Review changes").wait_for()
+                await panel.locator("#review-title").wait_for()
                 await panel.get_by_role(
                     "button", name="Confirm and save", exact=True
                 ).click()
-                await panel.get_by_role("heading", name="Review changes").wait_for(
+                await panel.locator("#review-title").wait_for(
                     state="hidden"
                 )
                 assert await panel.locator(".error").count() == 0
@@ -727,7 +732,7 @@ async def capture(config):
                 await panel.get_by_role(
                     "button", name="Review import", exact=True
                 ).click()
-                await panel.get_by_role("heading", name="Review changes").wait_for()
+                await panel.locator("#review-title").wait_for()
                 await panel.get_by_role("button", name="Cancel", exact=True).click()
                 await panel.get_by_role("button", name="Entities", exact=True).click()
                 await page.get_by_role(
@@ -748,7 +753,7 @@ async def capture(config):
                     "Deleting this UI mapping reactivates", exact=False
                 ).wait_for()
                 await panel.get_by_role("button", name="Delete", exact=True).click()
-                await panel.get_by_role("heading", name="Review changes").wait_for(
+                await panel.locator("#review-title").wait_for(
                     state="hidden"
                 )
                 assert await panel.locator(".error").count() == 0
@@ -761,7 +766,7 @@ async def capture(config):
                 await page.set_viewport_size({"width": 390, "height": 844})
                 await panel.get_by_role("button", name="Dashboard", exact=True).click()
                 await panel.get_by_role(
-                    "heading", name="Configuration", exact=True
+                    "heading", name="Import & migration", exact=True
                 ).wait_for()
                 await panel.locator("#back").click()
                 await page.wait_for_url(BASE + "/config/connectivity")

diff --git a/README.md b/README.md
@@ -180,7 +180,9 @@ values refresh while the browser is open.
 The sticky action bar shows the selection count and keeps **Review creation**
 available while scrolling. Select at least one control to enable it.
 Click **Review creation** to open the review dialog. Check the proposed mappings
-and discovery findings, then click **Create**. **Cancel** or Escape returns to
+and readable validation notices, then click **Create**. The dialog title includes
+the number of entities, and incompatible controls must be resolved before saving.
+After creation, the success message includes a **View entities** shortcut. **Cancel** or Escape returns to
 the table with your selections intact.
 
 ![Bulk creation review](examples/screenshots/panel-bulk-create.png)
@@ -212,7 +214,9 @@ choices. Leave the options editor blank to follow live QRC `Choices`; enter
 one option per line to save a static list. Discovery currently prefills a
 static copy of the choices, so clear that list to enable live choices.
 
-Review buttons become filled when mappings are selected. Definitions configured
+Review buttons are disabled until mappings are selected and become filled when
+they are ready to use. Review dialogs describe the task and entity count; success
+messages confirm how many entities were created, updated, or deleted. Definitions configured
 via Home Assistant YAML cannot be edited or deleted here until migrated.
 
 ![Entities and bulk editing](examples/screenshots/panel-entities.png)
